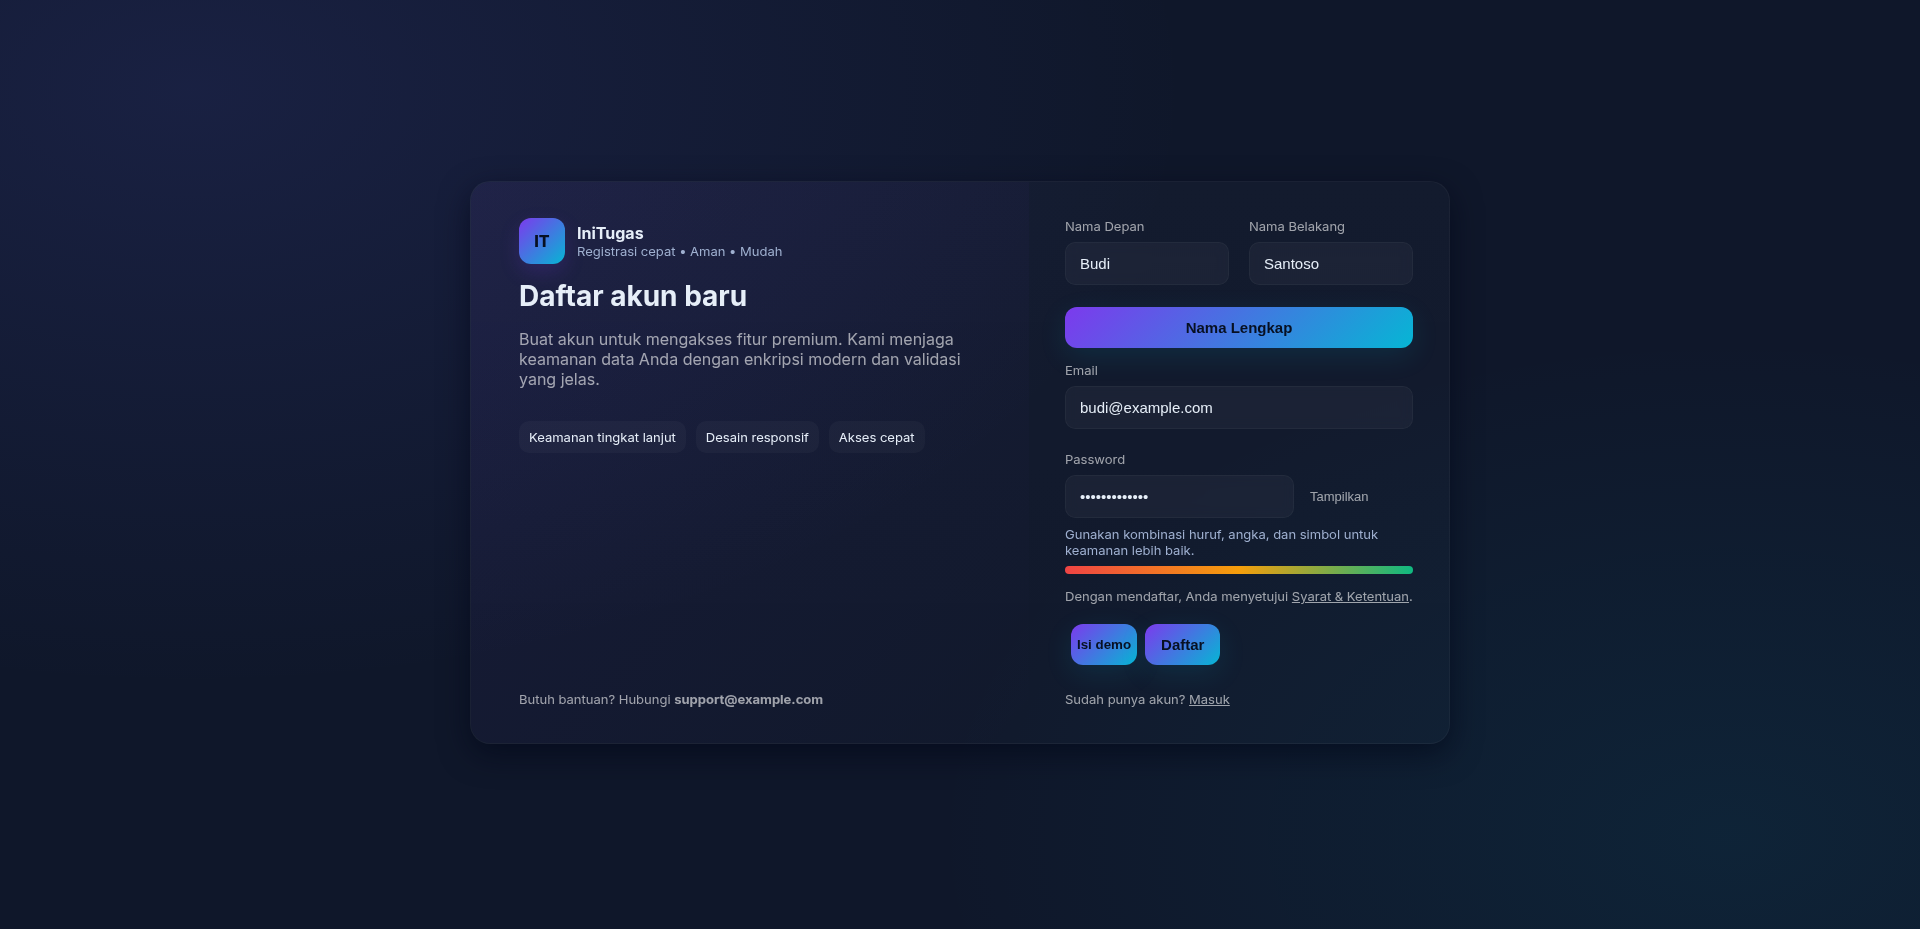
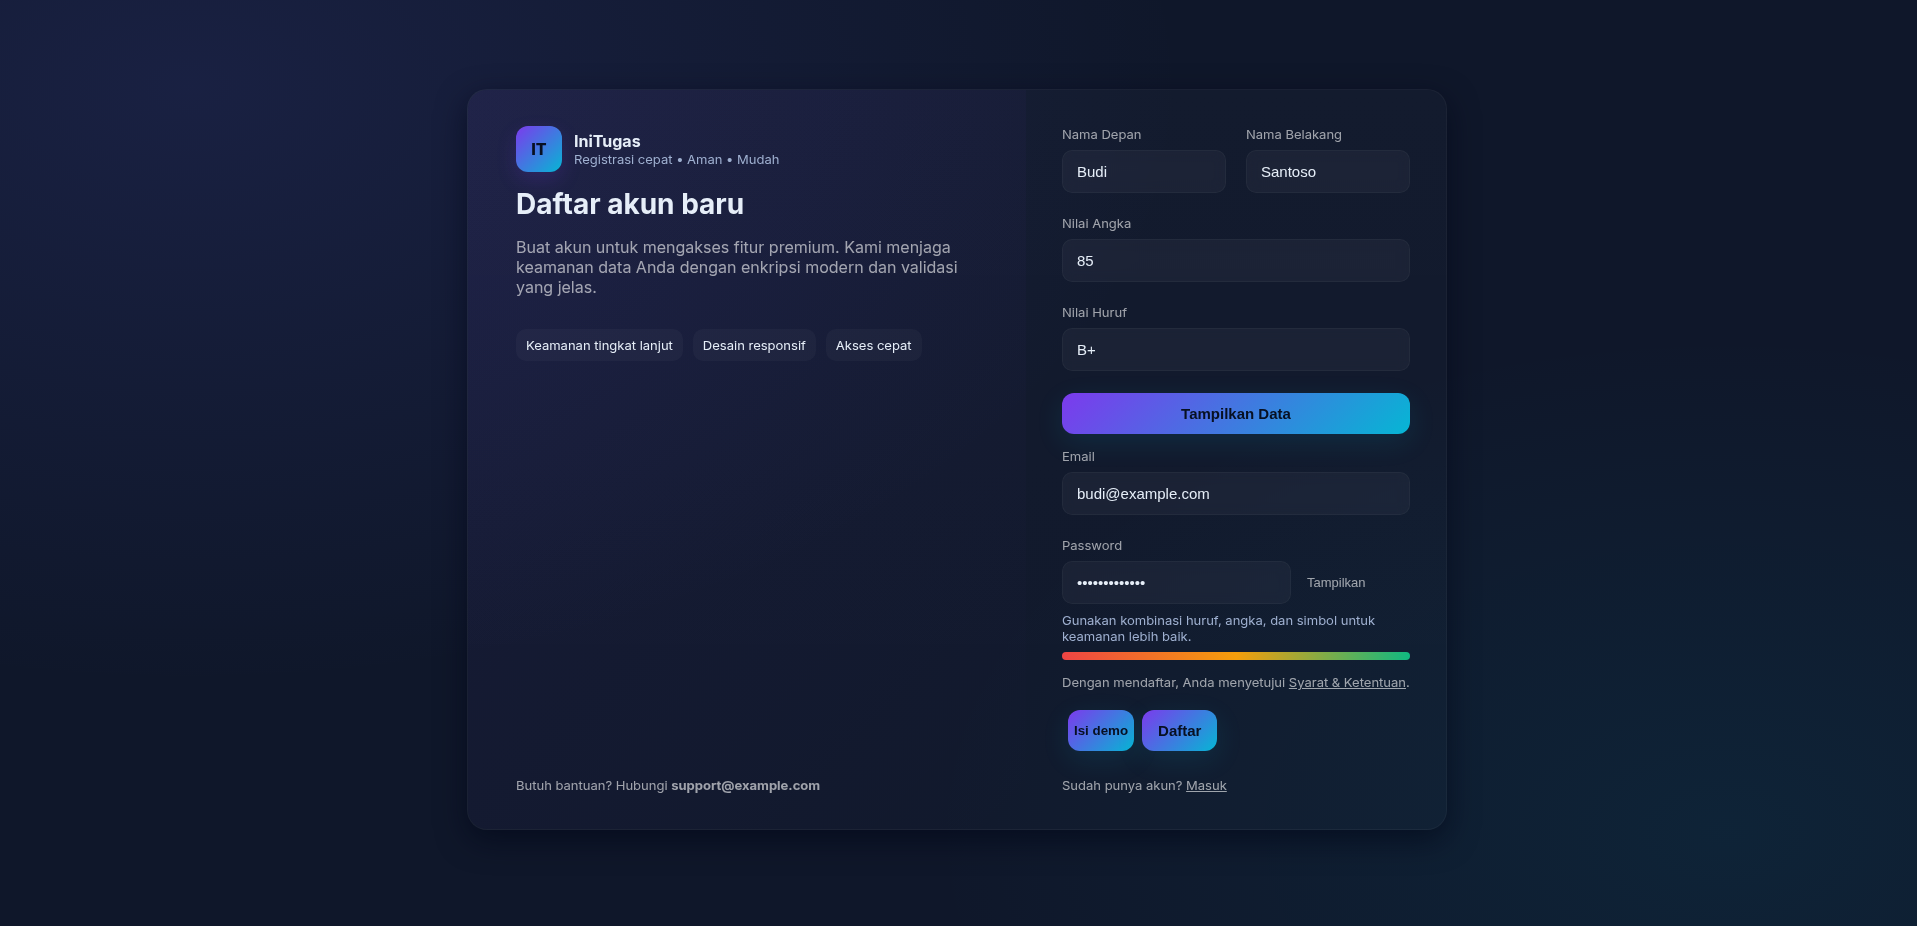
Menambah nilai angka & huruf

diff --git a/script.js b/script.js
@@ -2,12 +2,14 @@
 const form = document.getElementById('regForm');
 const firstNameInput = document.getElementById('firstName');
 const lastNameInput = document.getElementById('lastName');
+const nilaiAngkaInput = document.getElementById('nilaiAngka');
+const nilaiHurufInput = document.getElementById('nilaiHuruf');
 const emailInput = document.getElementById('email');
 const pwdInput = document.getElementById('password');
 const toggle = document.getElementById('togglePwd');
 const fillDemo = document.getElementById('fillDemo');
 const strengthBar = document.getElementById('strengthBar');
-const logNameBtn = document.getElementById('logNameBtn');
+const logDataBtn = document.getElementById('logDataBtn');
 
 // Helper Functions
 function validEmail(e) {
@@ -44,6 +46,8 @@ toggle.addEventListener('click', () => {
 fillDemo.addEventListener('click', () => {
   firstNameInput.value = 'Budi';
   lastNameInput.value = 'Santoso';
+  nilaiAngkaInput.value = 85;
+  nilaiHurufInput.value = 'B+'
   emailInput.value = 'budi@example.com';
   pwdInput.value = 'Str0ng!Pass12';
   updateStrength();
@@ -124,10 +128,12 @@ toggle.addEventListener('keydown', (ev) => {
   }
 });
 
-// Log Nama Lengkap Button
-logNameBtn.addEventListener('click', () => {
+// Log Data Lengkap Button
+logDataBtn.addEventListener('click', () => {
   const firstName = firstNameInput.value.trim();
   const lastName = lastNameInput.value.trim();
+  const nilaiAngka = nilaiAngkaInput.value.trim();
+  const nilaiHuruf = nilaiHurufInput.value.trim();
 
   if (!firstName && !lastName) {
     console.log('Nama Lengkap : (belum diisi)');
@@ -136,5 +142,12 @@ logNameBtn.addEventListener('click', () => {
   }
 
   console.log(`Nama Lengkap : ${firstName} ${lastName}`);
-  alert(`Nama Lengkap : ${firstName} ${lastName}`);
+  console.log(`Nilai Angka : ${nilaiAngka || '(belum diisi)'}`);
+  console.log(`Nilai Huruf : ${nilaiHuruf || '(belum diisi)'}`);
+
+  alert(
+    `Nama Lengkap : ${firstName} ${lastName}\n` +
+    `Nilai Angka : ${nilaiAngka || '(belum diisi)'}\n` +
+    `Nilai Huruf : ${nilaiHuruf || '(belum diisi)'}`
+  );
 });

diff --git a/index.html b/index.html
@@ -55,7 +55,19 @@
       </div>
 
       <div class="field">
-        <button type="button" class="btn" id="logNameBtn">Nama Lengkap</button>
+        <label for="nilaiAngka">Nilai Angka</label>
+        <input id="nilaiAngka" name="nilaiAngka" type="number" step="1" placeholder="Contoh: 85" required />
+        <div class="help" id="nilaiAngkaHelp"></div>
+      </div>
+
+      <div class="field">
+        <label for="nilaiHuruf">Nilai Huruf</label>
+        <input id="nilaiHuruf" name="nilaiHuruf" type="text" placeholder="Contoh: B+" maxlength="2" required />
+        <div class="help" id="nilaiHurufHelp"></div>
+      </div>
+
+      <div class="field">
+        <button type="button" class="btn" id="logDataBtn">Tampilkan Data</button>
       </div>
 
       <div class="field">

diff --git a/style.css b/style.css
@@ -104,6 +104,7 @@ label {
 }
 
 input[type="text"],
+input[type="number"],
 input[type="email"],
 input[type="password"] {
   background: var(--glass);
@@ -115,6 +116,19 @@ input[type="password"] {
   outline: none;
   transition: box-shadow 0.15s, border-color 0.12s;
   backdrop-filter: blur(6px);
+}
+
+
+/* ===== Input number ===== */
+input[type="number"] {
+  appearance: textfield;
+  -moz-appearance: textfield;
+}
+
+input[type="number"]::-webkit-outer-spin-button,
+input[type="number"]::-webkit-inner-spin-button {
+  -webkit-appearance: none;
+  margin: 0;
 }
 
 input:focus {
